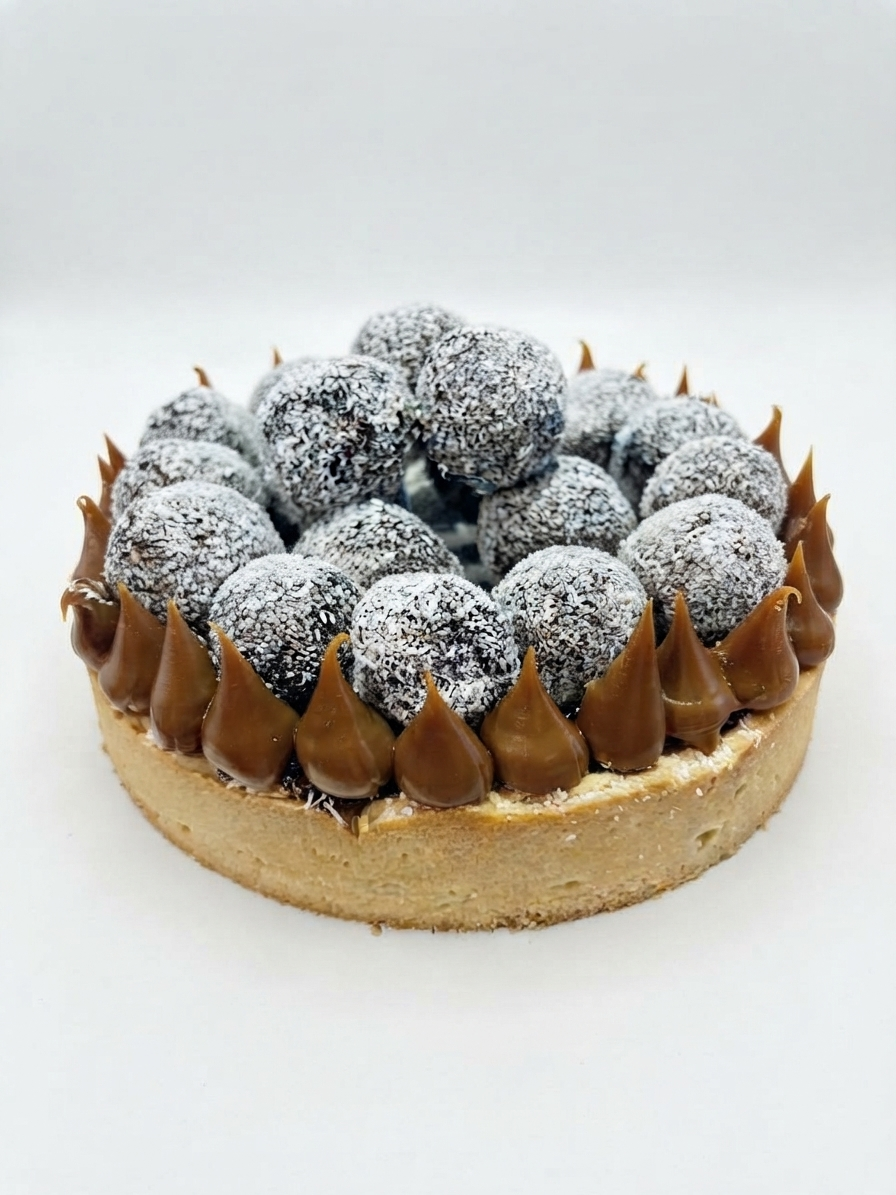
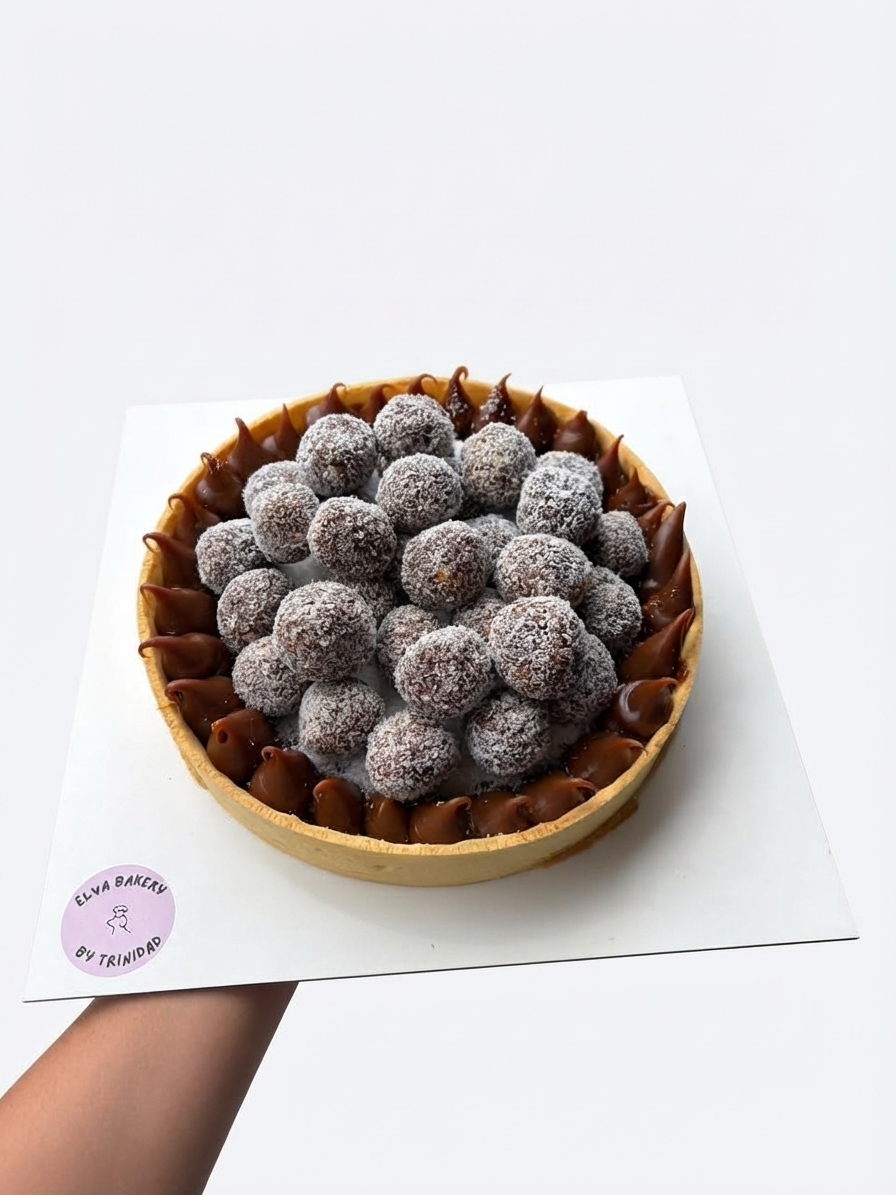
Fotos nuevas

diff --git a/frontend/tartas.html b/frontend/tartas.html
@@ -57,13 +57,13 @@
             <article class="torta-card">
 
                 <div class="torta-image">
-                    <img src="static/img/tartas/tartaQuaker.png"
+                    <img src="static/img/tartas/tartaQuaker.jpeg"
                          alt="Cabsha quaker">
                 </div>
 
                 <div class="torta-info">
                     <h2>Cabsha Quaker</h2>
-                    <p>Masa sablé, dulce de leche, chocolate y topping de bombones de quaker.</p>
+                    <p>Masa sablé, dulce de leche, relleno de quaker, coco y topping de bombones de quaker.</p>
                     <span class="price">$35.000</span>
                     <button
                         class="whatsapp-button"
@@ -120,7 +120,7 @@
             <article class="torta-card">
 
                 <div class="torta-image">
-                    <img src="static/img/tartas/keyLimePie.jpeg"
+                    <img src="static/img/tartas/key.jpeg"
                          alt="Key Lime Pie">
                 </div>
 

diff --git a/frontend/static/js/carrusel.js b/frontend/static/js/carrusel.js
@@ -64,6 +64,12 @@ const tortasCarousel = [
         imagen: "static/img/personalizadas/perso29.jpeg",
         titulo: "Cumpleaños de 29",
         descripcion: "Torta especializada, con 3 rellenos distintos: - crema chantilly y durazno - dulce de leche - crema chantilly y frutillas"
+    },
+
+    {
+        imagen: "static/img/personalizadas/torta80.jpeg",
+        titulo: "Cumpleaños de 80",
+        descripcion: "Torta especializada, con 3 rellenos: - dulce de leche - crema chantilly y frutillas - dulce de leche"
     }
 
 

diff --git a/frontend/static/css/global.css b/frontend/static/css/global.css
@@ -37,8 +37,10 @@ body {
     color: var(--texto);
 
     background-color: var(--rosa-fondo);
+    
 
     /* Fondo de cuadraditos */
+    /*
     background-image:
         linear-gradient(
             45deg,
@@ -53,7 +55,7 @@ body {
             transparent 25%,
             transparent 75%,
             rgba(255, 249, 245, 0.75) 75%
-        );
+        );*/
 
     background-size: 60px 60px;
     background-position: 0 0, 30px 30px;

diff --git a/frontend/tortas.html b/frontend/tortas.html
@@ -293,7 +293,7 @@
             <article class="torta-card">
 
                 <div class="torta-image">
-                    <img src="static/img/tortas/tortaMatilda.png"
+                    <img src="static/img/tortas/tortaMatilda.jpeg"
                          alt="bizco chocolate">
                 </div>
 
